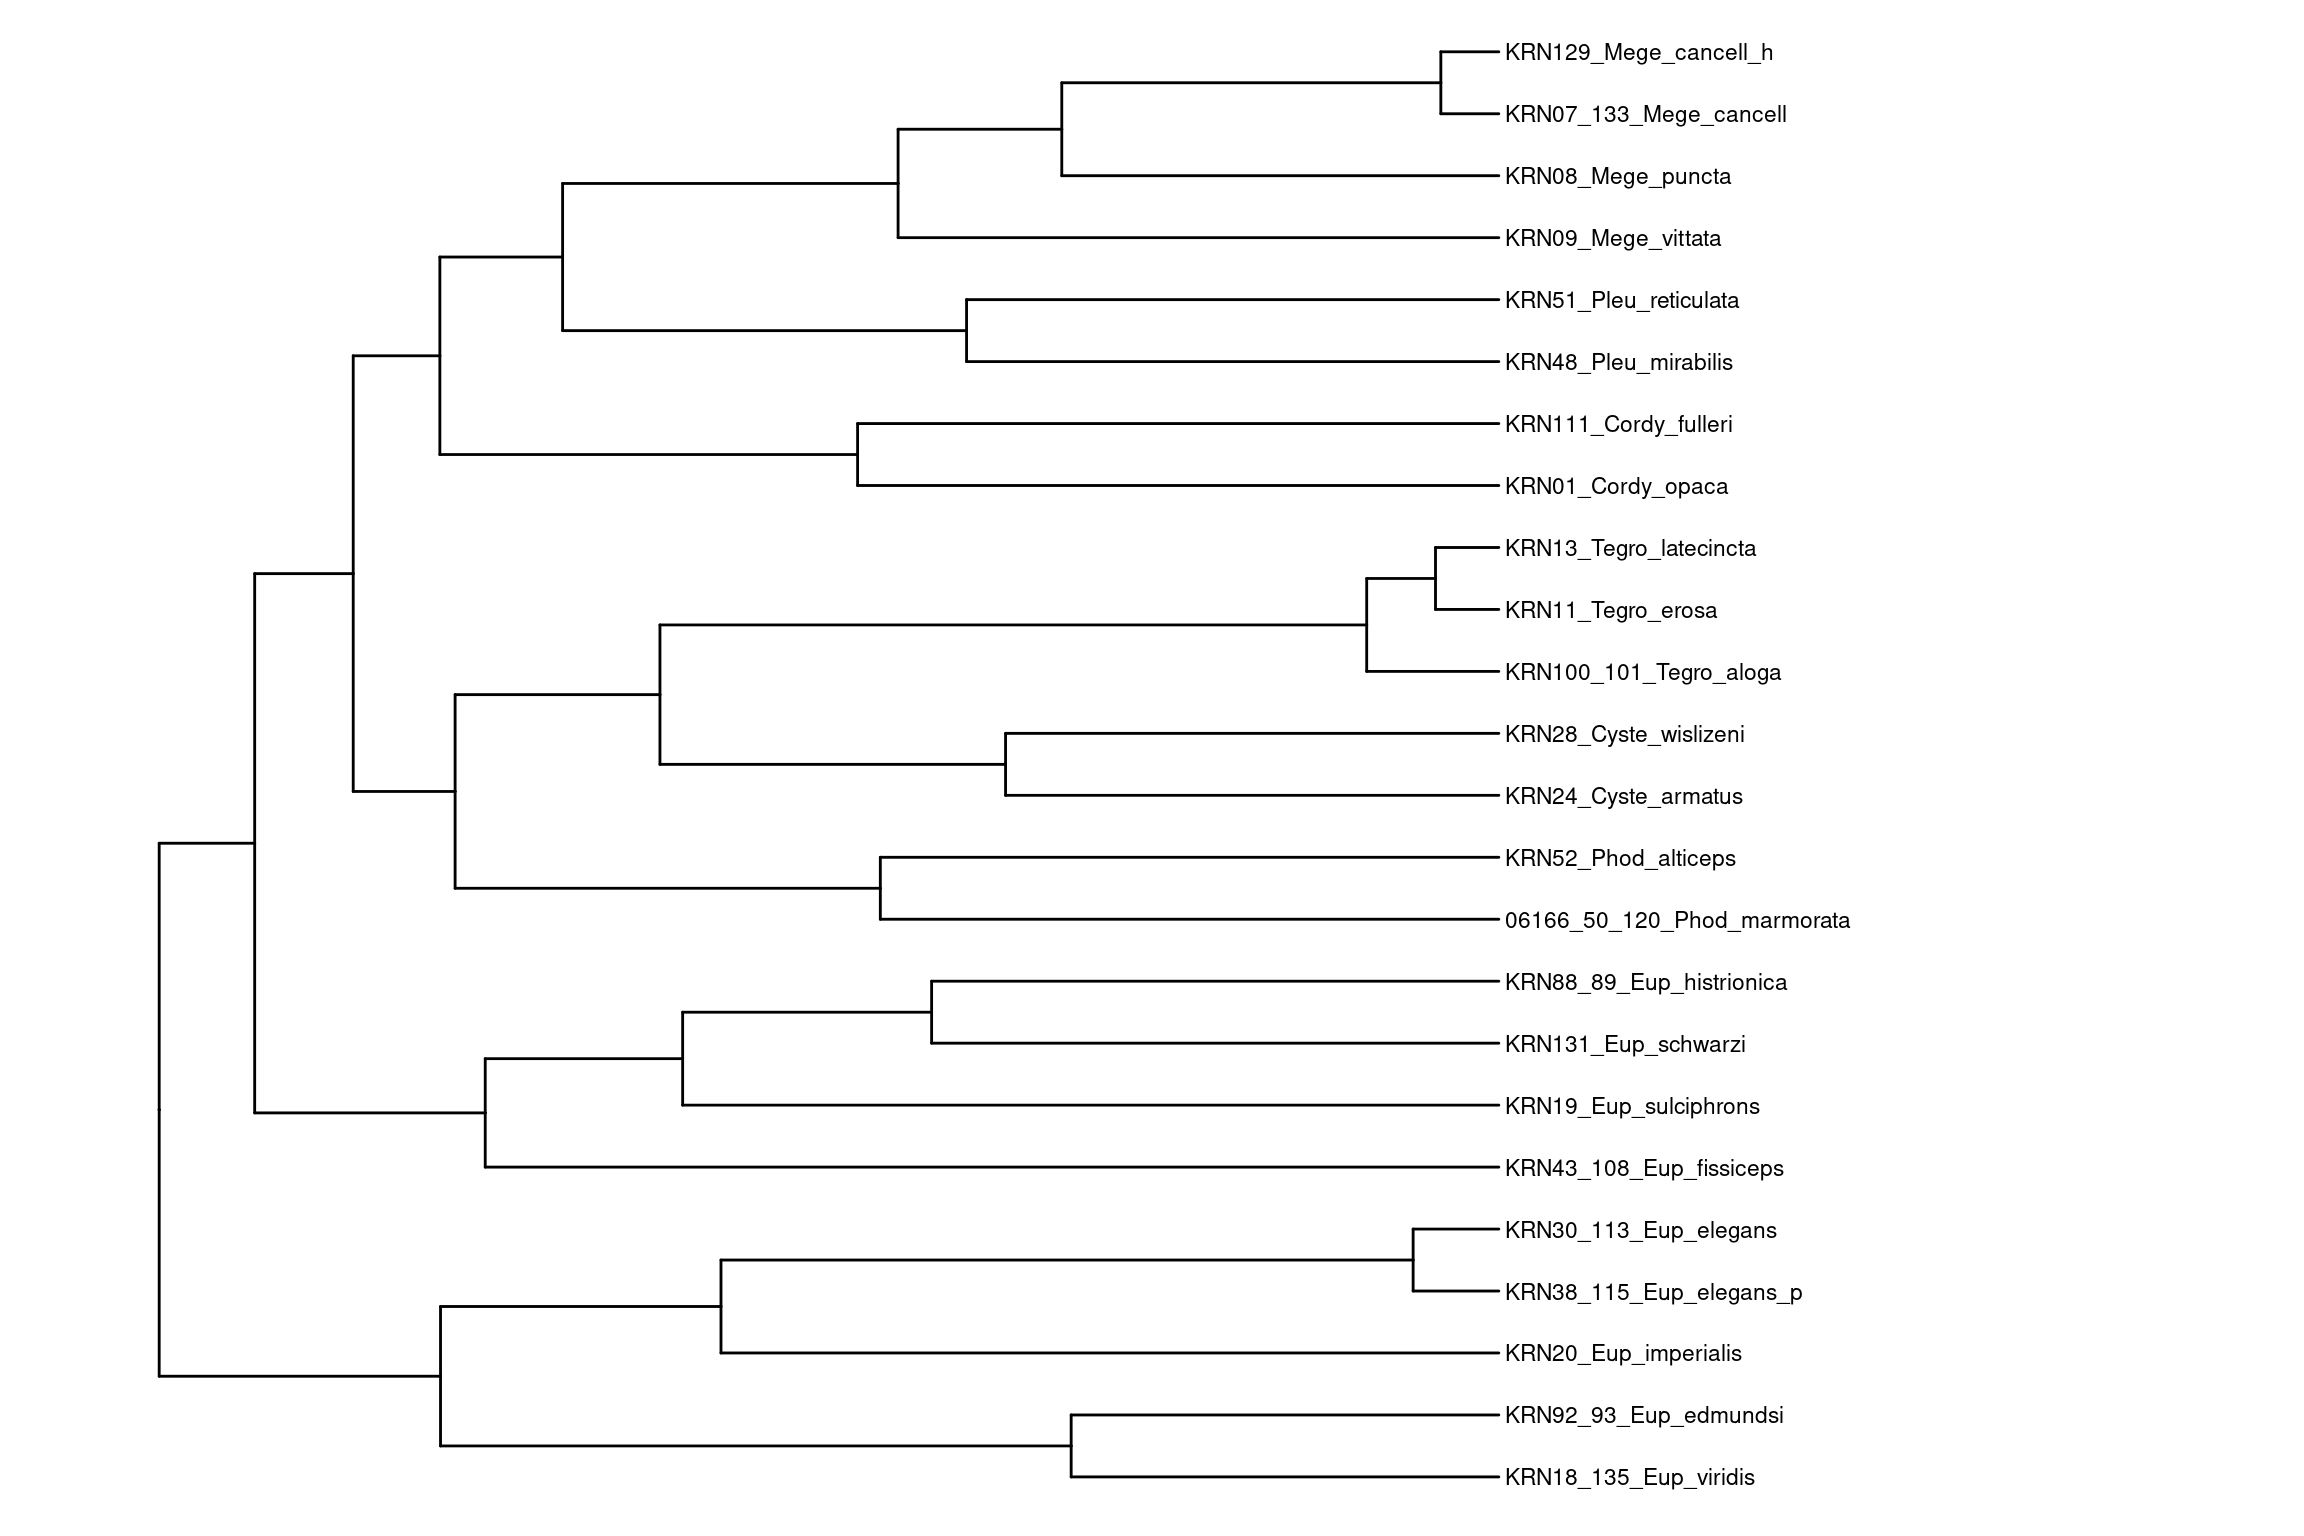
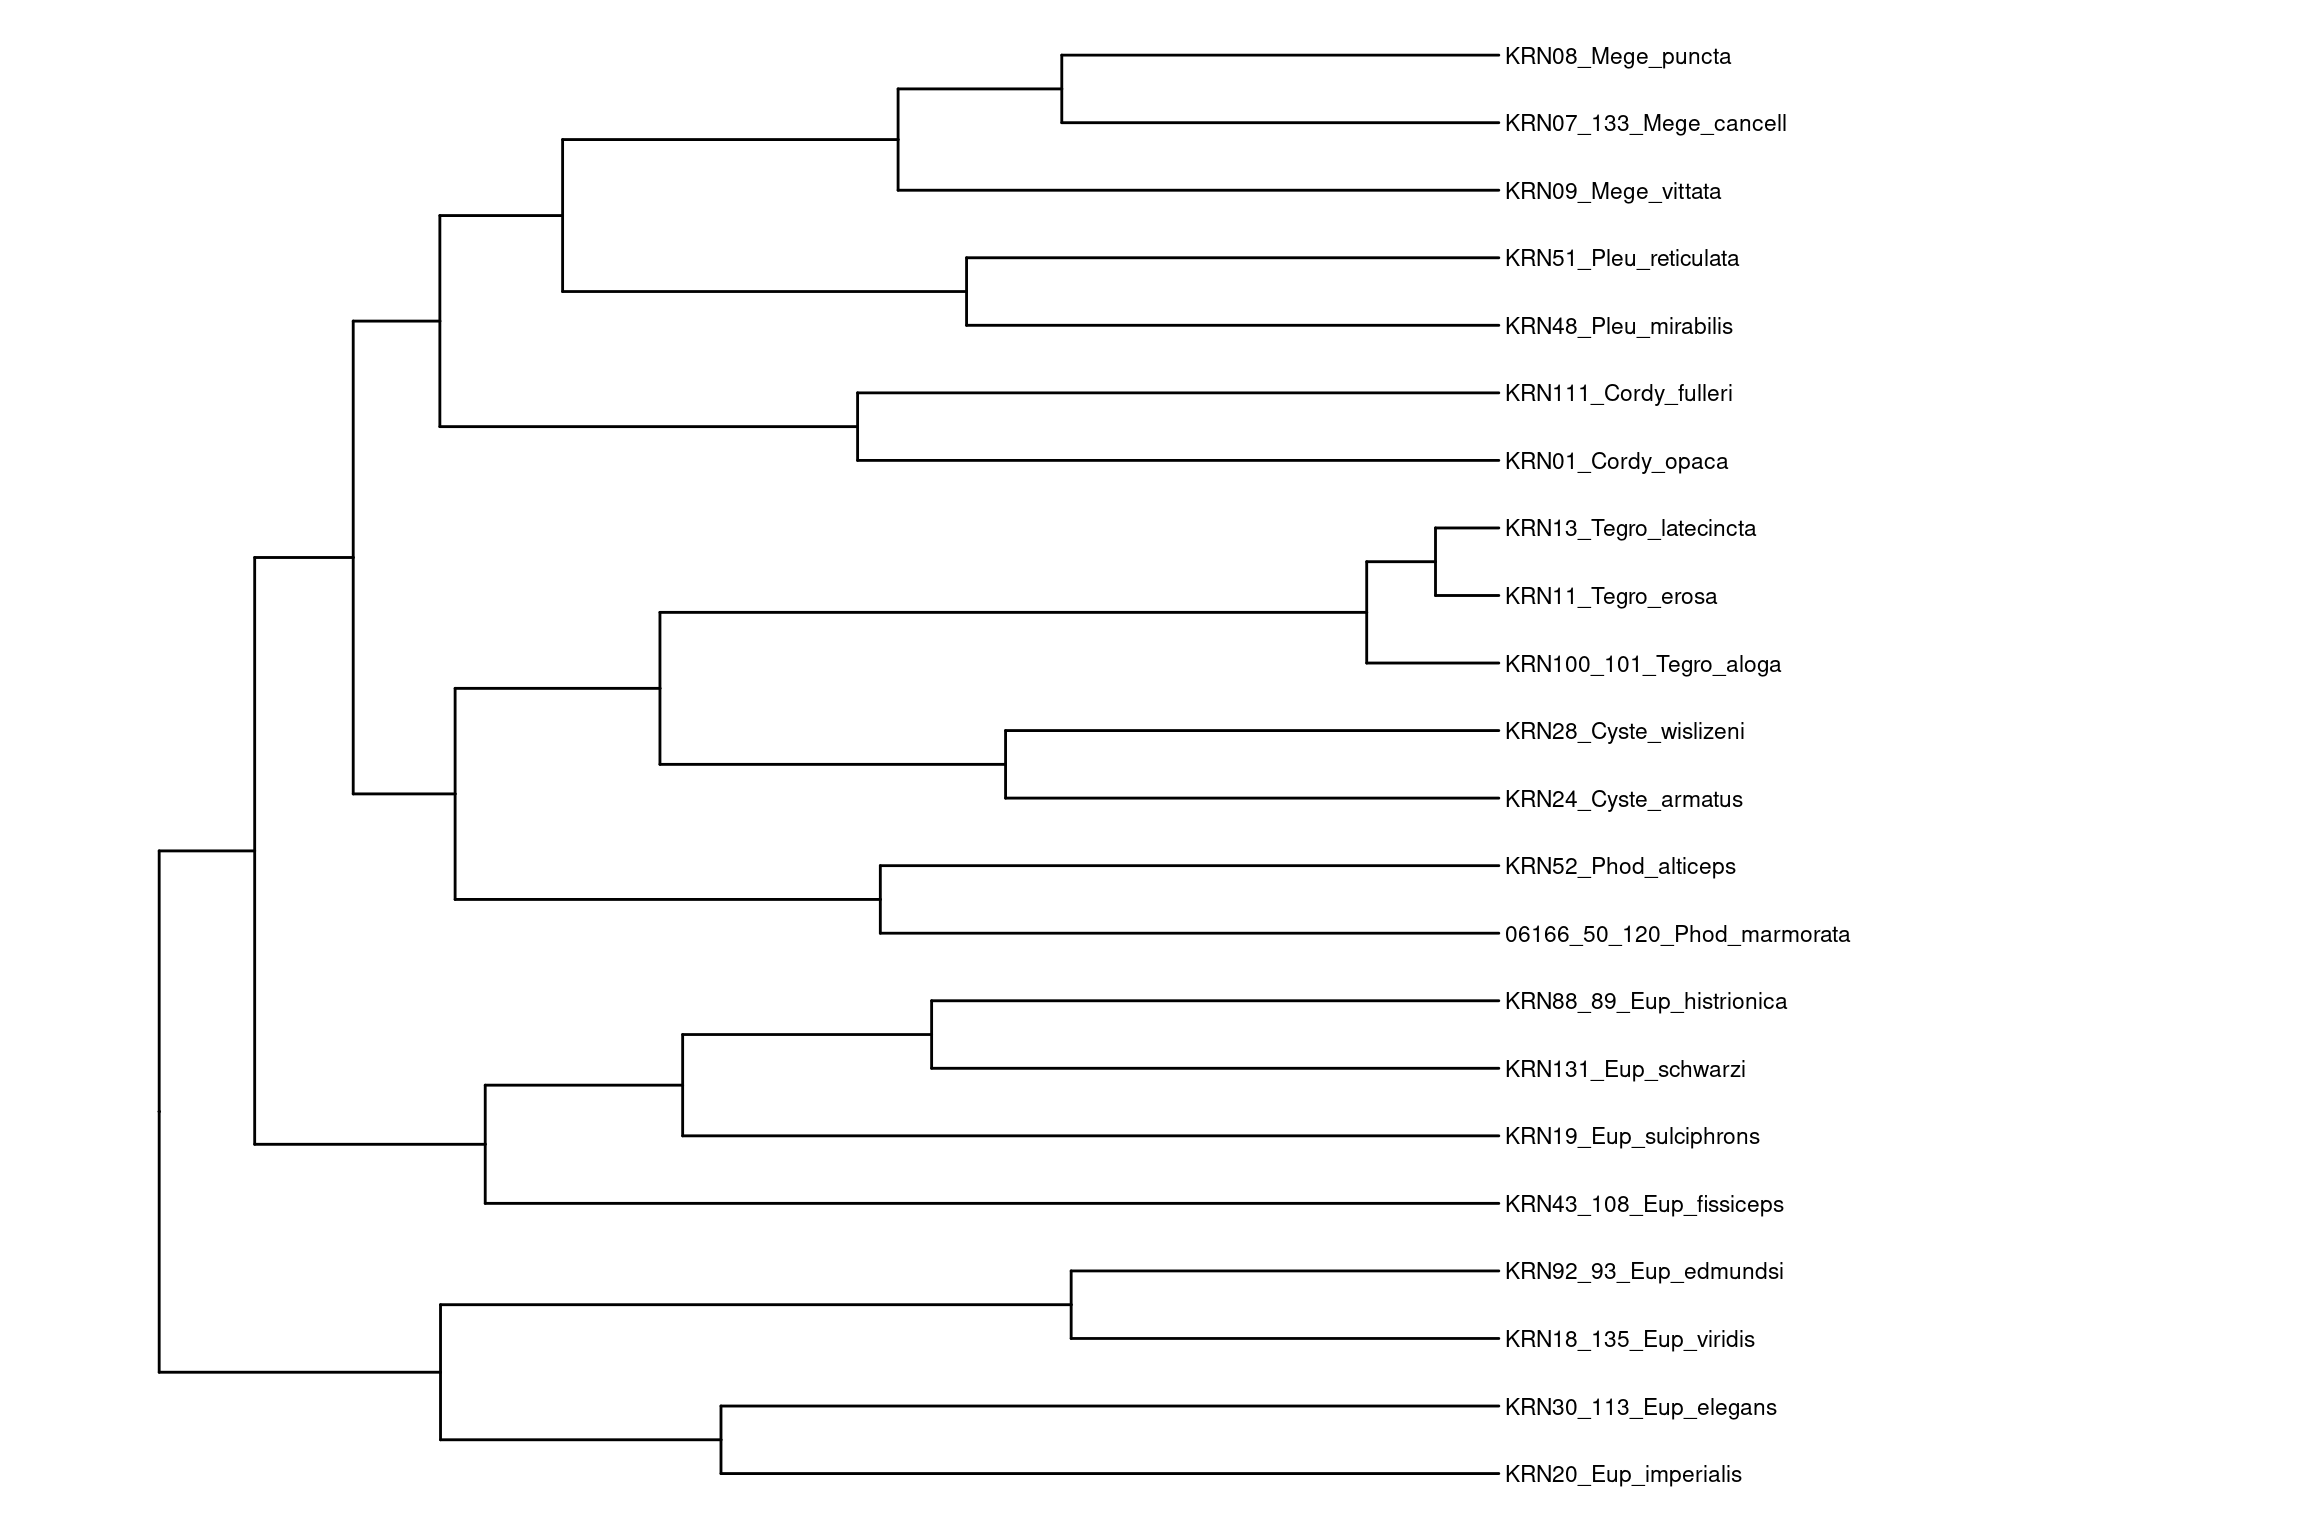
Built site for gh-pages

diff --git a/chapters/u1_intro_diversification.html b/chapters/u1_intro_diversification.html
@@ -291,7 +291,13 @@ pre > code.sourceCode > span > a:first-child::before { text-decoration: underlin
 <span id="cb1-36"><a href="#cb1-36" aria-hidden="true" tabindex="-1"></a><span class="co"># Instalar phytools si no está instalado</span></span>
 <span id="cb1-37"><a href="#cb1-37" aria-hidden="true" tabindex="-1"></a><span class="cf">if</span> (<span class="sc">!</span><span class="fu">requireNamespace</span>(<span class="st">"phytools"</span>, <span class="at">quietly =</span> <span class="cn">TRUE</span>)) {</span>
 <span id="cb1-38"><a href="#cb1-38" aria-hidden="true" tabindex="-1"></a>  <span class="fu">install.packages</span>(<span class="st">"phytools"</span>)</span>
-<span id="cb1-39"><a href="#cb1-39" aria-hidden="true" tabindex="-1"></a>}</span></code><button title="Copy to Clipboard" class="code-copy-button"><i class="bi"></i></button></pre></div>
+<span id="cb1-39"><a href="#cb1-39" aria-hidden="true" tabindex="-1"></a>}</span>
+<span id="cb1-40"><a href="#cb1-40" aria-hidden="true" tabindex="-1"></a></span>
+<span id="cb1-41"><a href="#cb1-41" aria-hidden="true" tabindex="-1"></a></span>
+<span id="cb1-42"><a href="#cb1-42" aria-hidden="true" tabindex="-1"></a><span class="co"># Instalar DDD si no está instalado</span></span>
+<span id="cb1-43"><a href="#cb1-43" aria-hidden="true" tabindex="-1"></a><span class="cf">if</span> (<span class="sc">!</span><span class="fu">requireNamespace</span>(<span class="st">"DDD"</span>, <span class="at">quietly =</span> <span class="cn">TRUE</span>)) {</span>
+<span id="cb1-44"><a href="#cb1-44" aria-hidden="true" tabindex="-1"></a>  <span class="fu">install.packages</span>(<span class="st">"DDD"</span>)</span>
+<span id="cb1-45"><a href="#cb1-45" aria-hidden="true" tabindex="-1"></a>}</span></code><button title="Copy to Clipboard" class="code-copy-button"><i class="bi"></i></button></pre></div>
 </section>
 <section id="instalación-de-treepar-en-r" class="level1">
 <h1>Instalación de TreePar en R</h1>
@@ -445,23 +451,25 @@ pre > code.sourceCode > span > a:first-child::before { text-decoration: underlin
 <span id="cb7-4"><a href="#cb7-4" aria-hidden="true" tabindex="-1"></a>  <span class="at">species =</span> <span class="fu">str_extract</span>(nombres_tips, <span class="st">"[A-Za-z]+_[A-Za-z]+(?:_[A-Za-z]+)?$"</span>)</span>
 <span id="cb7-5"><a href="#cb7-5" aria-hidden="true" tabindex="-1"></a>)</span>
 <span id="cb7-6"><a href="#cb7-6" aria-hidden="true" tabindex="-1"></a></span>
-<span id="cb7-7"><a href="#cb7-7" aria-hidden="true" tabindex="-1"></a><span class="co"># Seleccionar solo una muestra por especie</span></span>
-<span id="cb7-8"><a href="#cb7-8" aria-hidden="true" tabindex="-1"></a>unique_species <span class="ot">&lt;-</span> species_info <span class="sc">%&gt;%</span> </span>
-<span id="cb7-9"><a href="#cb7-9" aria-hidden="true" tabindex="-1"></a>  <span class="fu">group_by</span>(species) <span class="sc">%&gt;%</span> </span>
-<span id="cb7-10"><a href="#cb7-10" aria-hidden="true" tabindex="-1"></a>  <span class="fu">slice</span>(<span class="dv">1</span>) <span class="sc">%&gt;%</span>  <span class="co"># Selecciona solo la primera aparición de cada especie</span></span>
-<span id="cb7-11"><a href="#cb7-11" aria-hidden="true" tabindex="-1"></a>  <span class="fu">ungroup</span>()</span>
-<span id="cb7-12"><a href="#cb7-12" aria-hidden="true" tabindex="-1"></a></span>
-<span id="cb7-13"><a href="#cb7-13" aria-hidden="true" tabindex="-1"></a><span class="co"># Extraer los nombres de los tips que queremos conservar</span></span>
-<span id="cb7-14"><a href="#cb7-14" aria-hidden="true" tabindex="-1"></a>selected_tips <span class="ot">&lt;-</span> unique_species<span class="sc">$</span>tip_label</span>
-<span id="cb7-15"><a href="#cb7-15" aria-hidden="true" tabindex="-1"></a></span>
-<span id="cb7-16"><a href="#cb7-16" aria-hidden="true" tabindex="-1"></a><span class="co"># Remover duplicados</span></span>
-<span id="cb7-17"><a href="#cb7-17" aria-hidden="true" tabindex="-1"></a>subarbol_final <span class="ot">&lt;-</span> <span class="fu">drop.tip</span>(subarbol, <span class="fu">setdiff</span>(subarbol<span class="sc">$</span>tip.label, selected_tips))</span>
-<span id="cb7-18"><a href="#cb7-18" aria-hidden="true" tabindex="-1"></a></span>
-<span id="cb7-19"><a href="#cb7-19" aria-hidden="true" tabindex="-1"></a>sfp <span class="ot">&lt;-</span> <span class="fu">ggtree</span>(subarbol_final) <span class="sc">+</span> </span>
-<span id="cb7-20"><a href="#cb7-20" aria-hidden="true" tabindex="-1"></a>  <span class="fu">geom_tiplab</span>(<span class="at">size =</span> <span class="dv">3</span>) <span class="sc">+</span> </span>
-<span id="cb7-21"><a href="#cb7-21" aria-hidden="true" tabindex="-1"></a>  <span class="fu">xlim</span>(<span class="sc">-</span><span class="fl">0.5</span>, <span class="fu">max</span>(subarbol_final<span class="sc">$</span>edge.length) <span class="sc">*</span> <span class="dv">2</span>)  <span class="co"># Expande el espacio a la izquierda</span></span>
-<span id="cb7-22"><a href="#cb7-22" aria-hidden="true" tabindex="-1"></a></span>
-<span id="cb7-23"><a href="#cb7-23" aria-hidden="true" tabindex="-1"></a>sfp </span></code><button title="Copy to Clipboard" class="code-copy-button"><i class="bi"></i></button></pre></div>
+<span id="cb7-7"><a href="#cb7-7" aria-hidden="true" tabindex="-1"></a><span class="co"># Eliminar las ssp _h y _p</span></span>
+<span id="cb7-8"><a href="#cb7-8" aria-hidden="true" tabindex="-1"></a><span class="co"># Seleccionar solo una muestra por especie</span></span>
+<span id="cb7-9"><a href="#cb7-9" aria-hidden="true" tabindex="-1"></a>unique_species <span class="ot">&lt;-</span> species_info <span class="sc">%&gt;%</span></span>
+<span id="cb7-10"><a href="#cb7-10" aria-hidden="true" tabindex="-1"></a>  <span class="fu">filter</span>(<span class="sc">!</span><span class="fu">str_detect</span>(species, <span class="st">"_[hp]$"</span>)) <span class="sc">%&gt;%</span></span>
+<span id="cb7-11"><a href="#cb7-11" aria-hidden="true" tabindex="-1"></a>  <span class="fu">group_by</span>(species) <span class="sc">%&gt;%</span> </span>
+<span id="cb7-12"><a href="#cb7-12" aria-hidden="true" tabindex="-1"></a>  <span class="fu">slice</span>(<span class="dv">1</span>) <span class="sc">%&gt;%</span>  <span class="co"># Selecciona solo la primera aparición de cada especie</span></span>
+<span id="cb7-13"><a href="#cb7-13" aria-hidden="true" tabindex="-1"></a>  <span class="fu">ungroup</span>()</span>
+<span id="cb7-14"><a href="#cb7-14" aria-hidden="true" tabindex="-1"></a></span>
+<span id="cb7-15"><a href="#cb7-15" aria-hidden="true" tabindex="-1"></a><span class="co"># Extraer los nombres de los tips que queremos conservar</span></span>
+<span id="cb7-16"><a href="#cb7-16" aria-hidden="true" tabindex="-1"></a>selected_tips <span class="ot">&lt;-</span> unique_species<span class="sc">$</span>tip_label</span>
+<span id="cb7-17"><a href="#cb7-17" aria-hidden="true" tabindex="-1"></a></span>
+<span id="cb7-18"><a href="#cb7-18" aria-hidden="true" tabindex="-1"></a><span class="co"># Remover duplicados</span></span>
+<span id="cb7-19"><a href="#cb7-19" aria-hidden="true" tabindex="-1"></a>subarbol_final <span class="ot">&lt;-</span> <span class="fu">drop.tip</span>(subarbol, <span class="fu">setdiff</span>(subarbol<span class="sc">$</span>tip.label, selected_tips))</span>
+<span id="cb7-20"><a href="#cb7-20" aria-hidden="true" tabindex="-1"></a></span>
+<span id="cb7-21"><a href="#cb7-21" aria-hidden="true" tabindex="-1"></a>sfp <span class="ot">&lt;-</span> <span class="fu">ggtree</span>(subarbol_final) <span class="sc">+</span> </span>
+<span id="cb7-22"><a href="#cb7-22" aria-hidden="true" tabindex="-1"></a>  <span class="fu">geom_tiplab</span>(<span class="at">size =</span> <span class="dv">3</span>) <span class="sc">+</span> </span>
+<span id="cb7-23"><a href="#cb7-23" aria-hidden="true" tabindex="-1"></a>  <span class="fu">xlim</span>(<span class="sc">-</span><span class="fl">0.5</span>, <span class="fu">max</span>(subarbol_final<span class="sc">$</span>edge.length) <span class="sc">*</span> <span class="dv">2</span>)  <span class="co"># Expande el espacio a la izquierda</span></span>
+<span id="cb7-24"><a href="#cb7-24" aria-hidden="true" tabindex="-1"></a></span>
+<span id="cb7-25"><a href="#cb7-25" aria-hidden="true" tabindex="-1"></a>sfp </span></code><button title="Copy to Clipboard" class="code-copy-button"><i class="bi"></i></button></pre></div>
 <div class="cell-output-display">
 <div>
 <figure class="figure">
